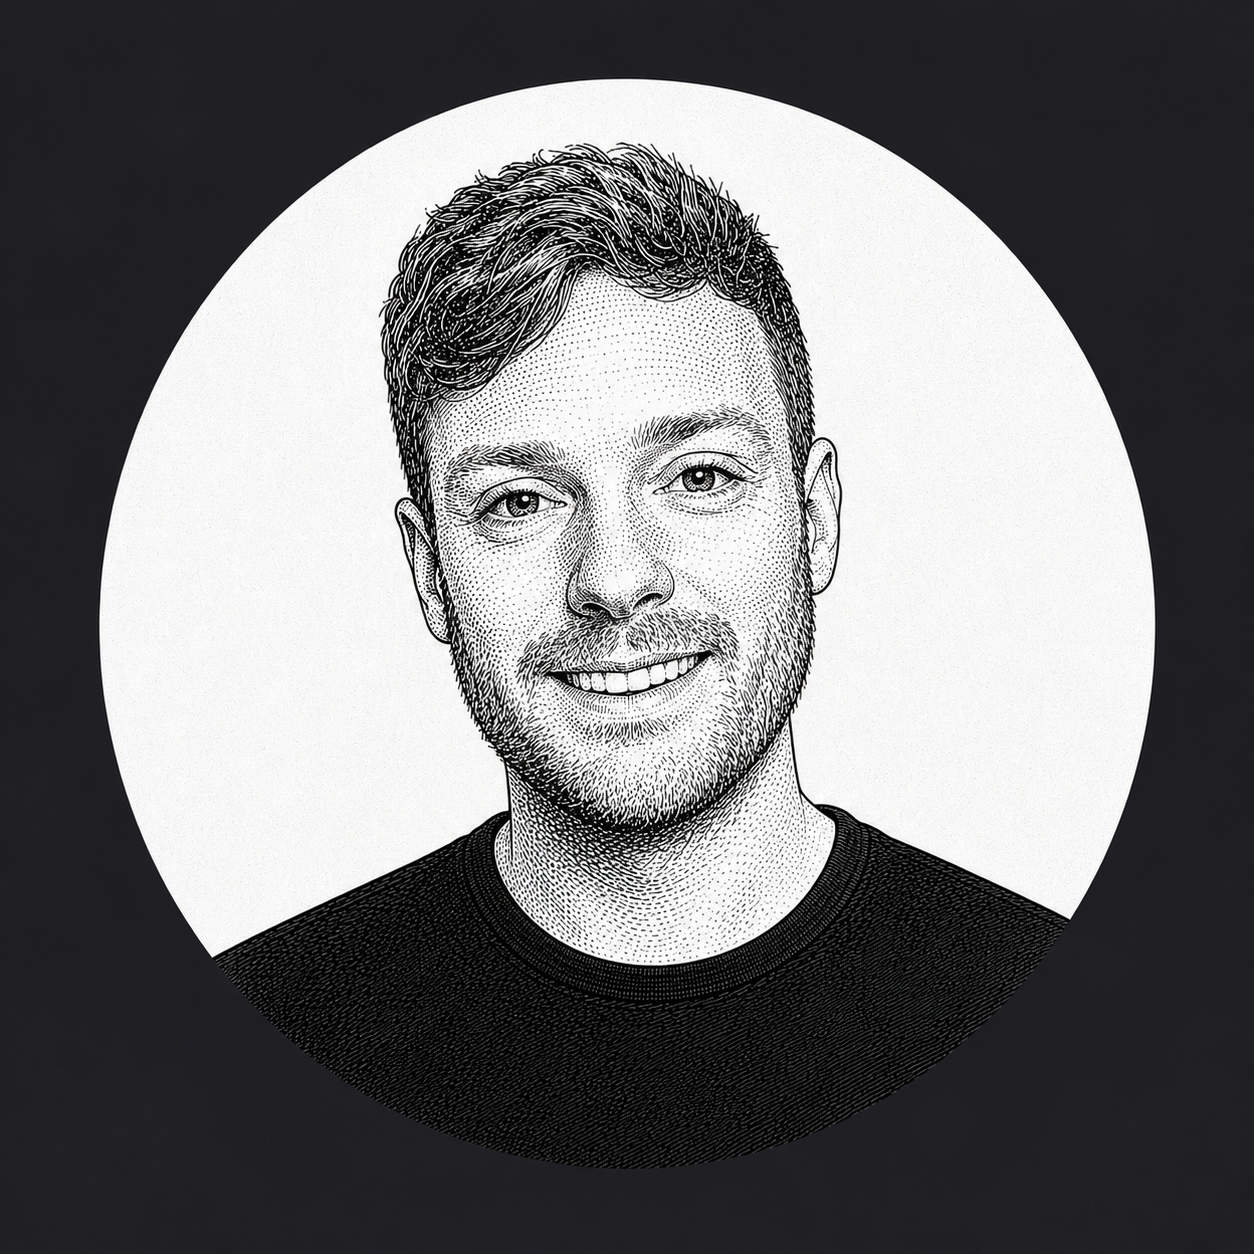
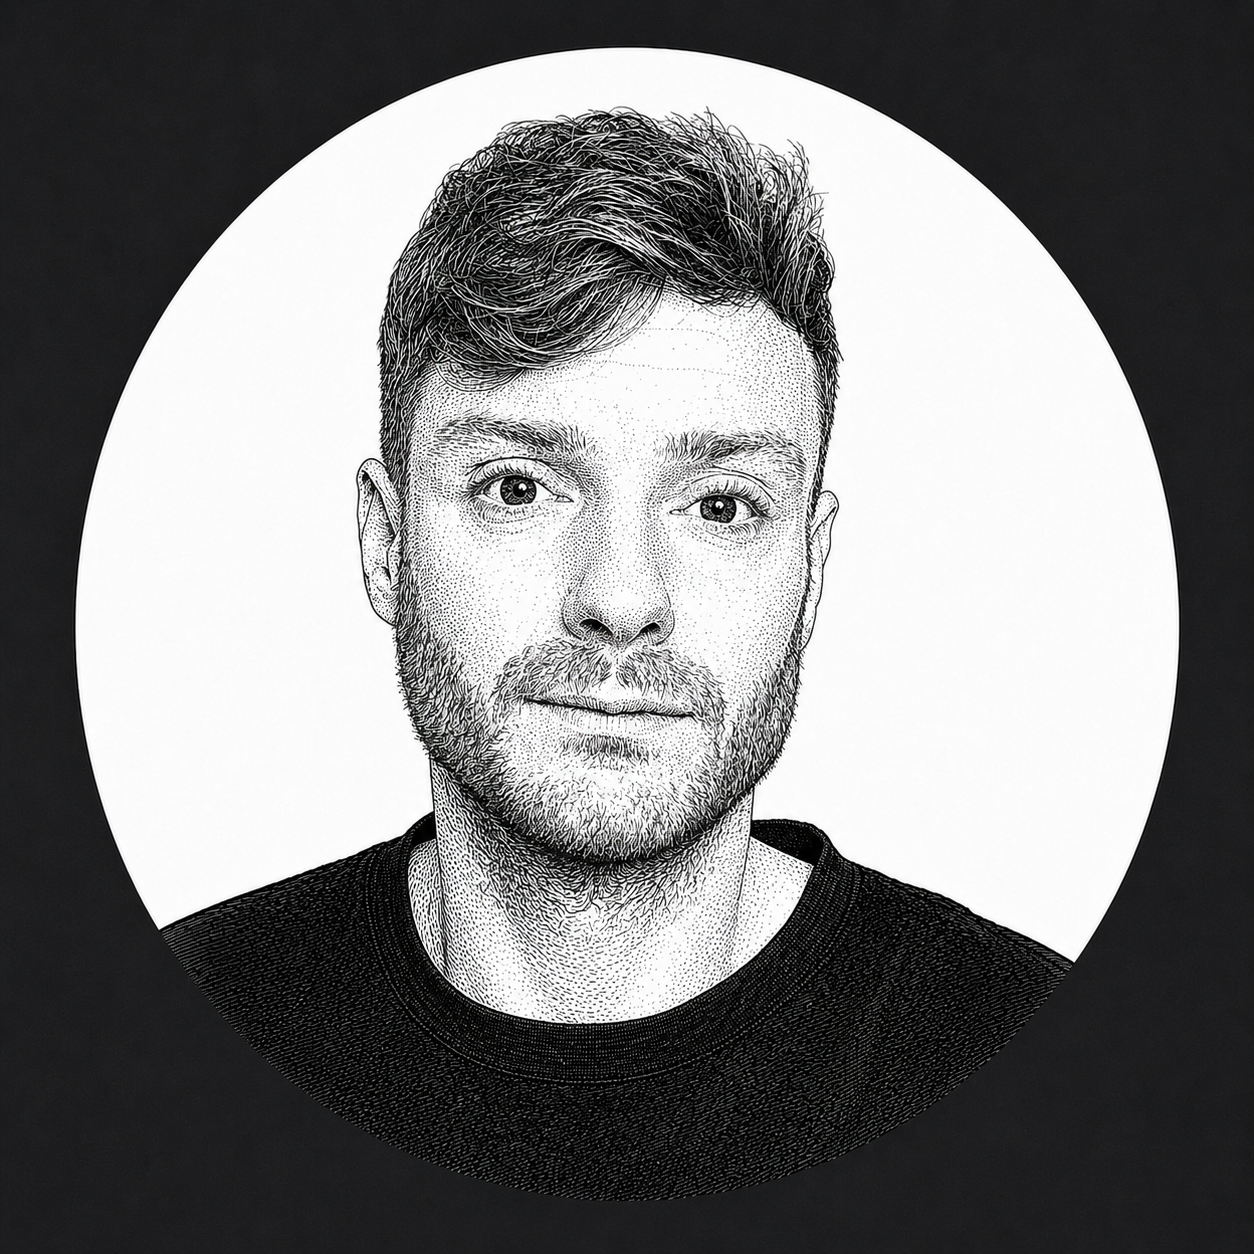
Add pine illustration, refresh Jon headshot, expand Reid bio
- assets/pine-michaux.jpg: botanical illustration for home page watermark
- assets/team-jon.png: updated headshot
- team.html: replace Reid M. Yager bio with expanded version

Changed region(s): [[0.0622, 0.0311, 0.9641, 0.9641]]

diff --git a/team.html b/team.html
@@ -125,9 +125,9 @@
           <span class="team-member-role">Founding Partner</span>
         </div>
 
-        <p>Reid M. Yager was most recently the Head of Policy and Strategic Communications at Flashbots, a research and development organization formed to mitigate the negative externalities posed by Maximal Extractable Value (MEV). At Flashbots, Reid helped develop industry principles on base layer neutrality and MEV. Regularly tapped to brief policymakers on market structure dynamics and frontline research, Reid is regarded as a leading technical expert on DeFi policy.</p>
-        <p>Prior to Flashbots, Reid served as Global Director of Strategic Communications at Tezos, where he led awareness and education campaigns for the Proof of Stake blockchain and developed Tezos' reputation as a cultural center for generative art. Before joining Tezos, Reid managed advocacy and public affairs engagements in Washington D.C. at FS Vector, representing clients such as Meta's Libra Project, Proof of Stake Alliance, and Ripple.</p>
-        <p>Reid entered crypto in 2017 as an early employee at communications consultancy Wachsman. He began his career as a political operative and is a veteran of Hillary for America and a former Democratic National Committee opposition researcher. Reid is a native of Alexandria, Virginia and currently resides in Berlin, Germany.</p>
+        <p>Reid M. Yager most recently served as Head of Policy and Strategic Communications at Flashbots, where he engaged global regulators on DeFi market structure and led the development of industry principles on base layer neutrality and MEV. He has advised FINRA, SEC, ESMA, European Commission, and U.S. Congress on crypto regulatory topics. He co-authored "Leveraging Blockchain in a New Era of Antitrust," published in the Stanford Journal of Blockchain Law &amp; Policy, arguing that blockchain offers practical tools for promoting competitive markets and modernizing antitrust enforcement.</p>
+        <p>Before Flashbots, Reid served as Global Director of Strategic Communications at Tezos. He led awareness and education campaigns for the network, positioned Tezos as a cultural center for generative art, and represented the organization at the Venice Biennale and Art Basel, where he spoke on the accessibility of the art market and the barriers facing artists in emerging markets.</p>
+        <p>Earlier, he managed advocacy and public affairs at FS Vector in Washington, D.C., representing clients including Meta's Libra Project, the Proof of Stake Alliance, and Ripple. He entered the industry in 2017 as an early employee at Wachsman, a blockchain communications consultancy, rising to Chief of Staff. He began his career in politics, working on Hillary for America and serving as a researcher at the Democratic National Committee.</p>
 
       </div>
     </div>